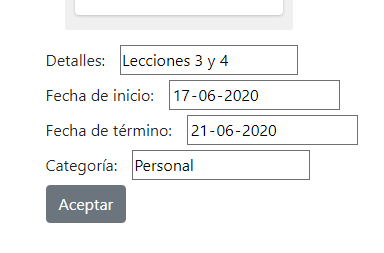
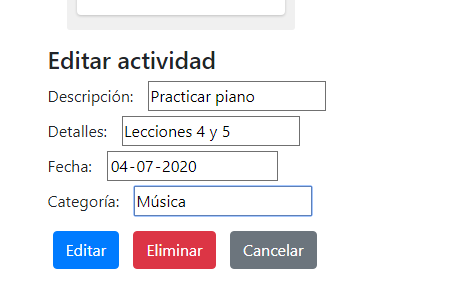
Integrado lista.jsp, modificado lista-uso.html

Changed region(s): [[0.0938, 0.166, 0.9375, 0.913], [0.1875, 0.0277, 0.75, 0.083]]

diff --git a/WebContent/js/listas.js b/WebContent/js/listas.js
@@ -128,16 +128,30 @@ $(document).ready(function() {
                 success: function(response) {
 
                     if (response !== 'error') {
+                        fechaString = new Date(fecha).toISOString().substring(0, 10);
+
                         let newItem = document.createElement('div');
-                        let content = '<div class="board-item" data-id="' + response + '" data-estado="por hacer"><div class="board-item-content">' + descripcion + '<p>' + detalles + '</p></div></div>';
+                        let content = '<div class="board-item" data-id="' + response + '" data-fecha="' + fechaString + '" data-categoria="' + categoria + '" data-estado="por hacer">' +
+                            '<div class="board-item-content"><span>' + descripcion + '</span><p>' + detalles + '</p></div></div>';
+
                         newItem.innerHTML = content;
                         newItem = newItem.firstChild;
                         columnGrids[0].add(newItem);
                         $('.board-item').click(function() {
-                                let id = $(this).attr('data-id');
-                                let estado = $(this).attr('data-estado');
+                                let id = $(this).attr('data-id'),
+                                    descripcion = $(this).find('span').first().html(),
+                                    detalles = $(this).find('p').first().html(),
+                                    fecha = $(this).attr('data-fecha'),
+                                    categoria = $(this).attr('data-categoria'),
+                                    estado = $(this).attr('data-estado');
+
                                 $('#id-edit').val(id);
+                                $('#desc-edit').val(descripcion);
+                                $('#detalles-edit').val(detalles);
+                                $('#fecha-edit').val(fecha);
+                                $('#categoria-edit').val(categoria);
                                 $('#estado-edit').val(estado);
+
                                 $('.task-details').slideDown('fast');
                             })
                             .on('dragEnd', function() {
@@ -163,6 +177,7 @@ $(document).ready(function() {
                         $('#add').val('');
 
                     }
+                    $('.add-task-form input').val('');
                     $('.add-task-form').slideUp('fast');
                 },
                 dataType: 'html'
@@ -173,10 +188,20 @@ $(document).ready(function() {
 
     // Otorga funcionalidad al hacer (doble) click y al recolocar las actividades del tablero
     $('.board-item').click(function() {
-            let id = $(this).attr('data-id');
-            let estado = $(this).attr('data-estado');
+            let id = $(this).attr('data-id'),
+                descripcion = $(this).find('span').first().html(),
+                detalles = $(this).find('p').first().html(),
+                fecha = $(this).attr('data-fecha'),
+                categoria = $(this).attr('data-categoria'),
+                estado = $(this).attr('data-estado');
+
             $('#id-edit').val(id);
+            $('#desc-edit').val(descripcion);
+            $('#detalles-edit').val(detalles);
+            $('#fecha-edit').val(fecha);
+            $('#categoria-edit').val(categoria);
             $('#estado-edit').val(estado);
+
             $('.task-details').slideDown('fast');
         })
         .on('dragEnd', function() {
@@ -270,6 +295,11 @@ $(document).ready(function() {
             });
         }
 
+    });
+
+    // Otorga funcionalidad al botón de cancelar edición de actividad
+    $('#edit-cancel').click(function() {
+        $('.task-details').slideUp('fast');
     });
 
 });

diff --git a/WebContent/lista-uso.html b/WebContent/lista-uso.html
@@ -72,7 +72,7 @@
                         </div>
                         <div class="col-sm-6 content-wrapper">
                             <div class="content-container">
-                                <p>Para crear una nueva actividad, presiona Nueva actividad. Luego, escribe el nombre de la actividad y pulsa Agregar.</p>
+                                <p>Para crear una nueva actividad, presiona Nueva actividad. Luego, completa los campos con los detalles de la actividad y pulsa Agregar.</p>
                             </div>
                         </div>
                     </div>
@@ -84,7 +84,7 @@
                         </div>
                         <div class="col-sm-6">
                             <div class="content-container">
-                                <p>Para agregar detalles a la actividad recién creada, has doble click en ella y completa los campos que necesites. Puedes agregar detalles, fecha de inicio y de término, o categoría.</p>
+                                <p>Puedes hacer doble click en cualquiera de las actividades ya creadas. Eso abrirá un panel en la parte inferior, donde encontrarás los botones de editar y eliminar actividad.</p>
                             </div>
                         </div>
                     </div>

diff --git a/WebContent/css/style.css b/WebContent/css/style.css
@@ -18,17 +18,6 @@ body {
     background-color: rgb(249, 172, 152);
 }
 
-#calendario p,
-#calendario h1,
-#calendario h2,
-#calendario h3 {
-    text-align: center;
-    margin-top: 4vh;
-    width: 60%;
-    margin-left: auto;
-    margin-right: auto;
-}
-
 .calendar-container {
     width: 100%;
     padding-left: 5px;
@@ -162,14 +151,8 @@ footer p {
     padding: 15px;
 }
 
-.add-task-form {
-    display: flex;
-    align-items: center;
-    flex-wrap: wrap;
-}
-
-.add-task-form * {
-    margin-top: 15px;
+.add-task-form>div {
+    margin-top: 10px;
 }
 
 .add-task-form input {
@@ -180,12 +163,13 @@ footer p {
     margin-top: 15px;
 }
 
-.task-details label {
+.task-details label,
+.add-task-form label {
     margin-right: 15px;
 }
 
-.task-details #routine {
-    margin-right: 5px;
+.task-details button {
+    margin: 10px 5px 0;
 }
 
 .board {

diff --git a/WebContent/calendario-uso.html b/WebContent/calendario-uso.html
@@ -30,7 +30,7 @@
                         <ul class="nav-list">
                             <li><a href="index.html"><span ></span>Inicio</a></li>
                             <li><a href="quienes-somos.html"><span ></span>Quiénes somos</a></li>
-                            <li><a href="lista.html"><span ></span>Listas</a></li>
+                            <li><a href="lista.jsp"><span ></span>Listas</a></li>
                             <li><a href="calendario.html"><span ></span>Calendario</a></li>
                             <li><a href="rutina.html"><span ></span>Rutinas</a></li>
                             <li><a href="contacto.html"><span ></span>Contacto</a></li>

diff --git a/WebContent/calendario.html b/WebContent/calendario.html
@@ -46,7 +46,7 @@
                         <ul class="nav-list">
                             <li><a href="index.html"><span ></span>Inicio</a></li>
                             <li><a href="quienes-somos.html"><span ></span>Quiénes somos</a></li>
-                            <li><a href="lista.html"><span ></span>Listas</a></li>
+                            <li><a href="lista.jsp"><span ></span>Listas</a></li>
                             <li><a href="calendario.html"><span ></span>Calendario</a></li>
                             <li><a href="rutina.html"><span ></span>Rutinas</a></li>
                             <li><a href="contacto.html"><span ></span>Contacto</a></li>

diff --git a/WebContent/contacto.html b/WebContent/contacto.html
@@ -38,7 +38,7 @@
                         <ul class="nav-list">
                             <li><a href="index.html"><span ></span>Inicio</a></li>
                             <li><a href="quienes-somos.html"><span ></span>Quiénes somos</a></li>
-                            <li><a href="lista.html"><span ></span>Listas</a></li>
+                            <li><a href="lista.jsp"><span ></span>Listas</a></li>
                             <li><a href="calendario.html"><span ></span>Calendario</a></li>
                             <li><a href="rutina.html"><span ></span>Rutinas</a></li>
                             <li><a href="contacto.html"><span ></span>Contacto</a></li>

diff --git a/WebContent/index.html b/WebContent/index.html
@@ -36,7 +36,7 @@
                         <ul class="nav-list">
                             <li><a href="index.html"><span ></span>Inicio</a></li>
                             <li><a href="quienes-somos.html"><span ></span>Quiénes somos</a></li>
-                            <li><a href="lista.html"><span ></span>Listas</a></li>
+                            <li><a href="lista.jsp"><span ></span>Listas</a></li>
                             <li><a href="calendario.html"><span ></span>Calendario</a></li>
                             <li><a href="rutina.html"><span ></span>Rutinas</a></li>
                             <li><a href="contacto.html"><span ></span>Contacto</a></li>

diff --git a/WebContent/logout.html b/WebContent/logout.html
@@ -36,7 +36,7 @@
                         <ul class="nav-list">
                             <li><a href="index.html"><span ></span>Inicio</a></li>
                             <li><a href="quienes-somos.html"><span ></span>Quiénes somos</a></li>
-                            <li><a href="lista.html"><span ></span>Listas</a></li>
+                            <li><a href="lista.jsp"><span ></span>Listas</a></li>
                             <li><a href="calendario.html"><span ></span>Calendario</a></li>
                             <li><a href="rutina.html"><span ></span>Rutinas</a></li>
                             <li><a href="contacto.html"><span ></span>Contacto</a></li>

diff --git a/WebContent/quienes-somos.html b/WebContent/quienes-somos.html
@@ -37,7 +37,7 @@
                         <ul class="nav-list">
                             <li><a href="index.html"><span ></span>Inicio</a></li>
                             <li><a href="quienes-somos.html"><span ></span>Quiénes somos</a></li>
-                            <li><a href="lista.html"><span ></span>Listas</a></li>
+                            <li><a href="lista.jsp"><span ></span>Listas</a></li>
                             <li><a href="calendario.html"><span ></span>Calendario</a></li>
                             <li><a href="rutina.html"><span ></span>Rutinas</a></li>
                             <li><a href="contacto.html"><span ></span>Contacto</a></li>

diff --git a/WebContent/rutina.html b/WebContent/rutina.html
@@ -39,7 +39,7 @@
                         <ul class="nav-list">
                             <li><a href="index.html"><span ></span>Inicio</a></li>
                             <li><a href="quienes-somos.html"><span ></span>Quiénes somos</a></li>
-                            <li><a href="lista.html"><span ></span>Listas</a></li>
+                            <li><a href="lista.jsp"><span ></span>Listas</a></li>
                             <li><a href="calendario.html"><span ></span>Calendario</a></li>
                             <li><a href="rutina.html"><span ></span>Rutinas</a></li>
                             <li><a href="contacto.html"><span ></span>Contacto</a></li>
